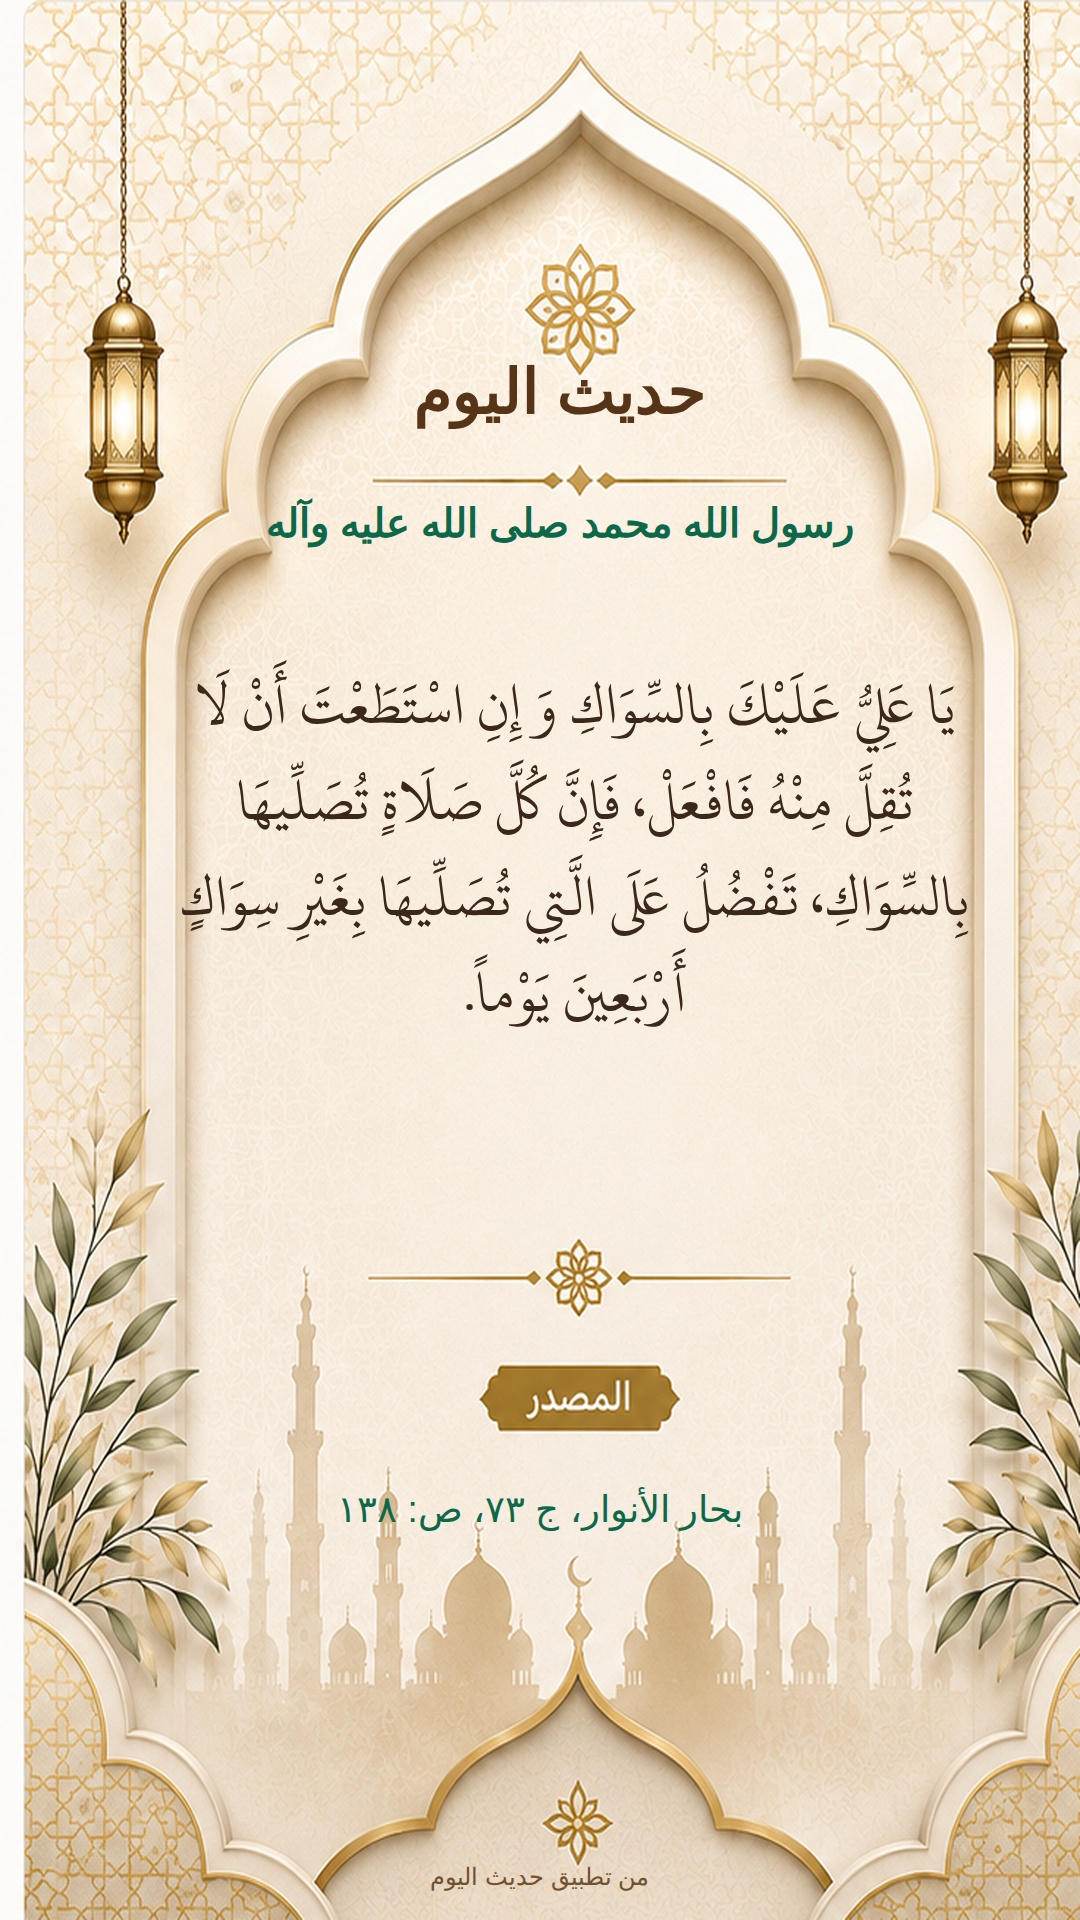
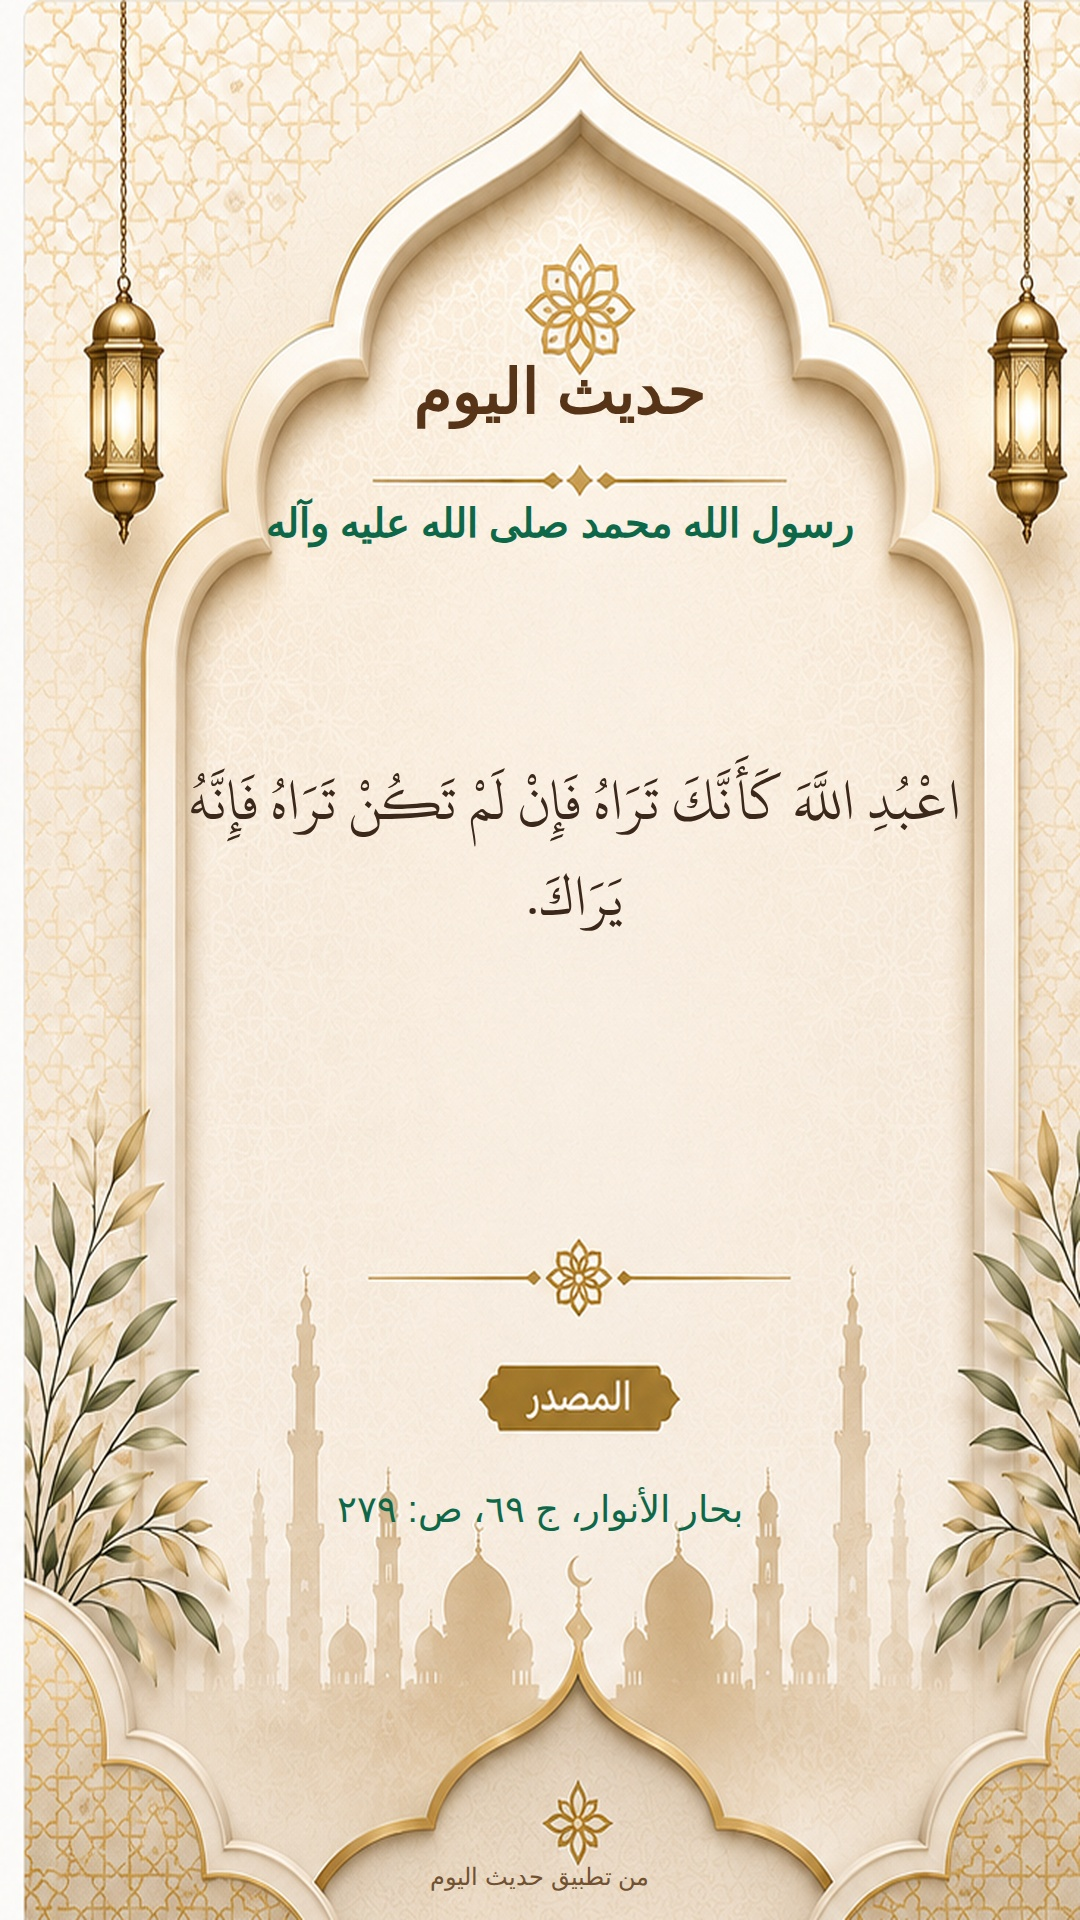
Publish daily Hadith image

diff --git a/output.html b/output.html
@@ -228,14 +228,14 @@
 
     <div class="hadith-box" id="hadithBox">
       <div class="hadith" id="hadith">
-        يَا عَلِيُّ عَلَيْكَ بِالسِّوَاكِ وَ إِنِ اسْتَطَعْتَ أَنْ لَا تُقِلَّ مِنْهُ فَافْعَلْ، فَإِنَّ كُلَّ صَلَاةٍ تُصَلِّيهَا بِالسِّوَاكِ، تَفْضُلُ عَلَى الَّتِي تُصَلِّيهَا بِغَيْرِ سِوَاكٍ أَرْبَعِينَ يَوْماً.
+        اعْبُدِ اللَّهَ كَأَنَّكَ تَرَاهُ فَإِنْ لَمْ تَكُنْ تَرَاهُ فَإِنَّهُ يَرَاكَ.
       </div>
     </div>
 
 
     <div class="reference-box" id="referenceBox">
       <div class="reference" id="reference">
-        <bdi dir="rtl">بحار الأنوار، ج ٧٣، ص: ١٣٨</bdi>
+        <bdi dir="rtl">بحار الأنوار، ج ٦٩، ص: ٢٧٩</bdi>
       </div>
     </div>
 
